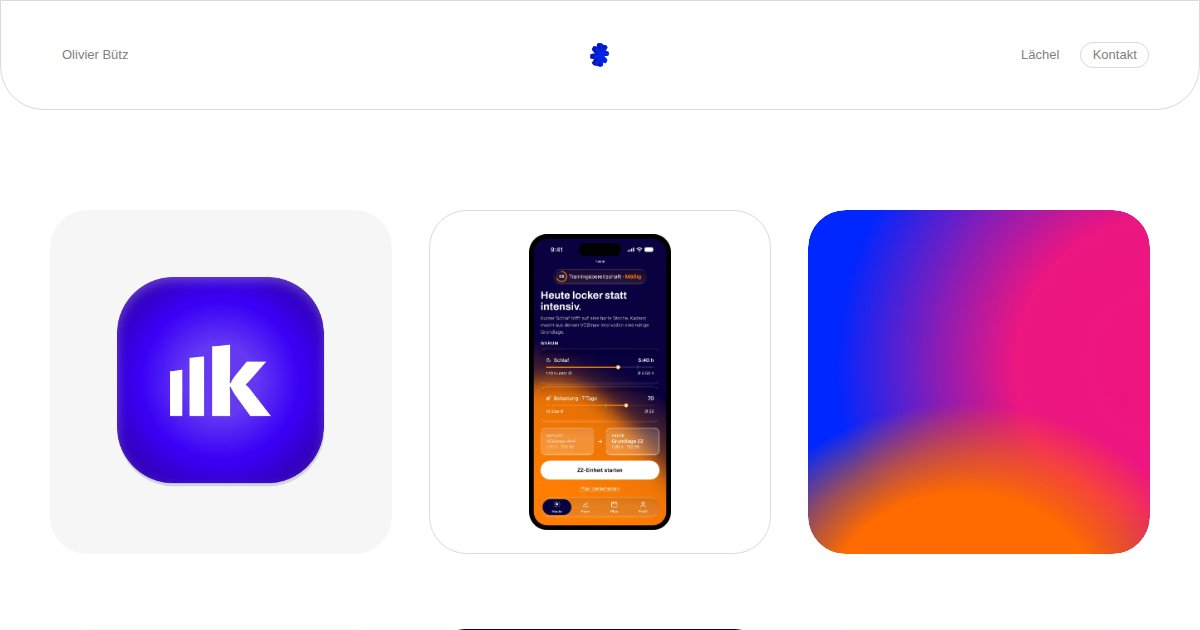
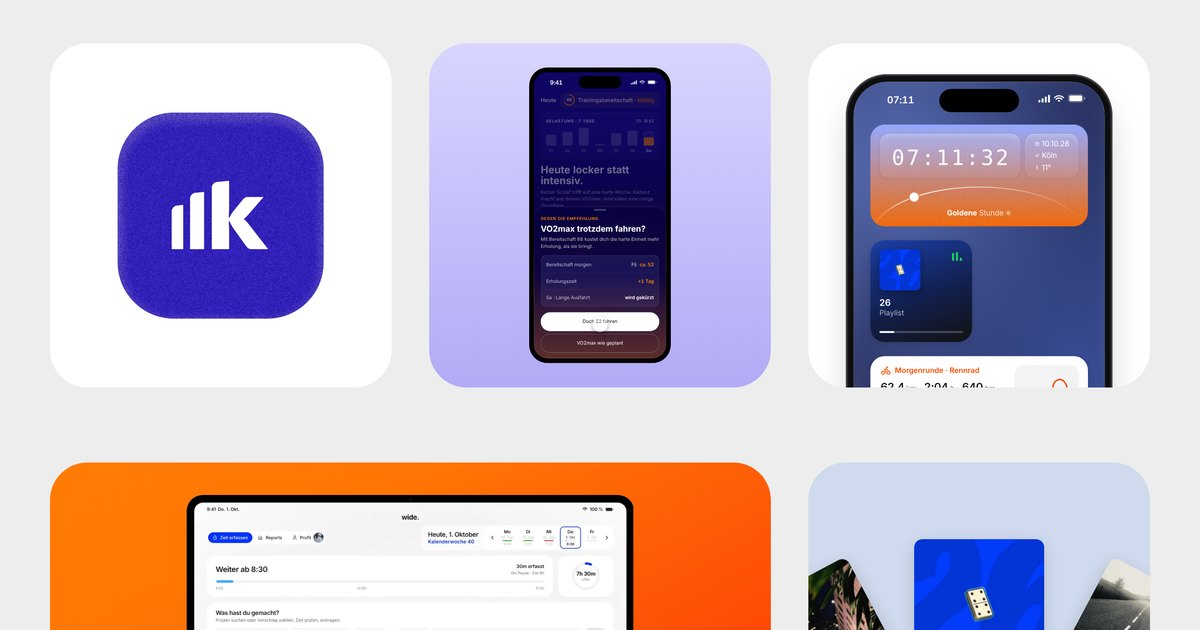
Link-Vorschaubild (og-image) mit aktuellem Stand inkl. wide-Kachel
Claude-Session: https://claude.ai/code/session_01BTjDRfUX9L5EB3wDHeoe6F

diff --git a/index.html b/index.html
@@ -13,7 +13,7 @@
 <meta property="og:url" content="https://www.olivierbuetz.com/">
 <meta property="og:title" content="Olivier Bütz – Senior Product Designer für UX/UI in Köln">
 <meta property="og:description" content="Portfolio von Olivier Bütz, Senior Product Designer aus Köln: UX/UI-Design, Conversion-Optimierung und Branding – mit Arbeiten wie der Rennrad-App Kadenz.">
-<meta property="og:image" content="https://www.olivierbuetz.com/og-image.jpg">
+<meta property="og:image" content="https://www.olivierbuetz.com/og-image.jpg?v=82c0e307">
 <meta name="twitter:card" content="summary_large_image">
 
 <link rel="preconnect" href="https://fonts.googleapis.com">
